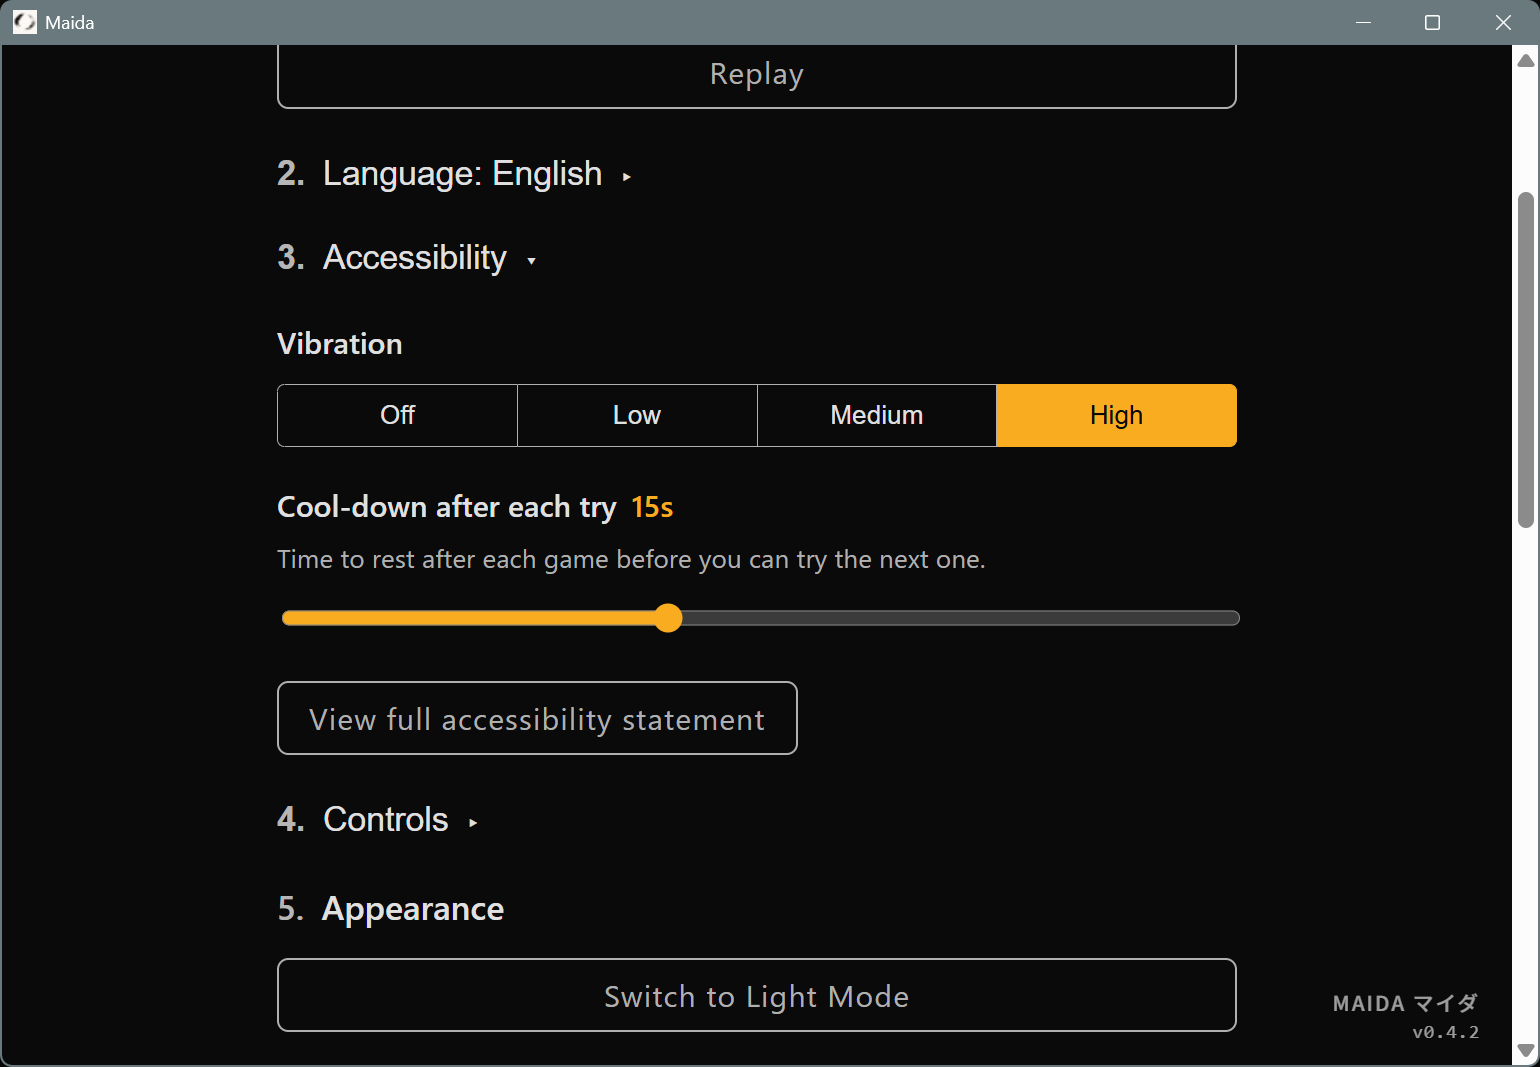
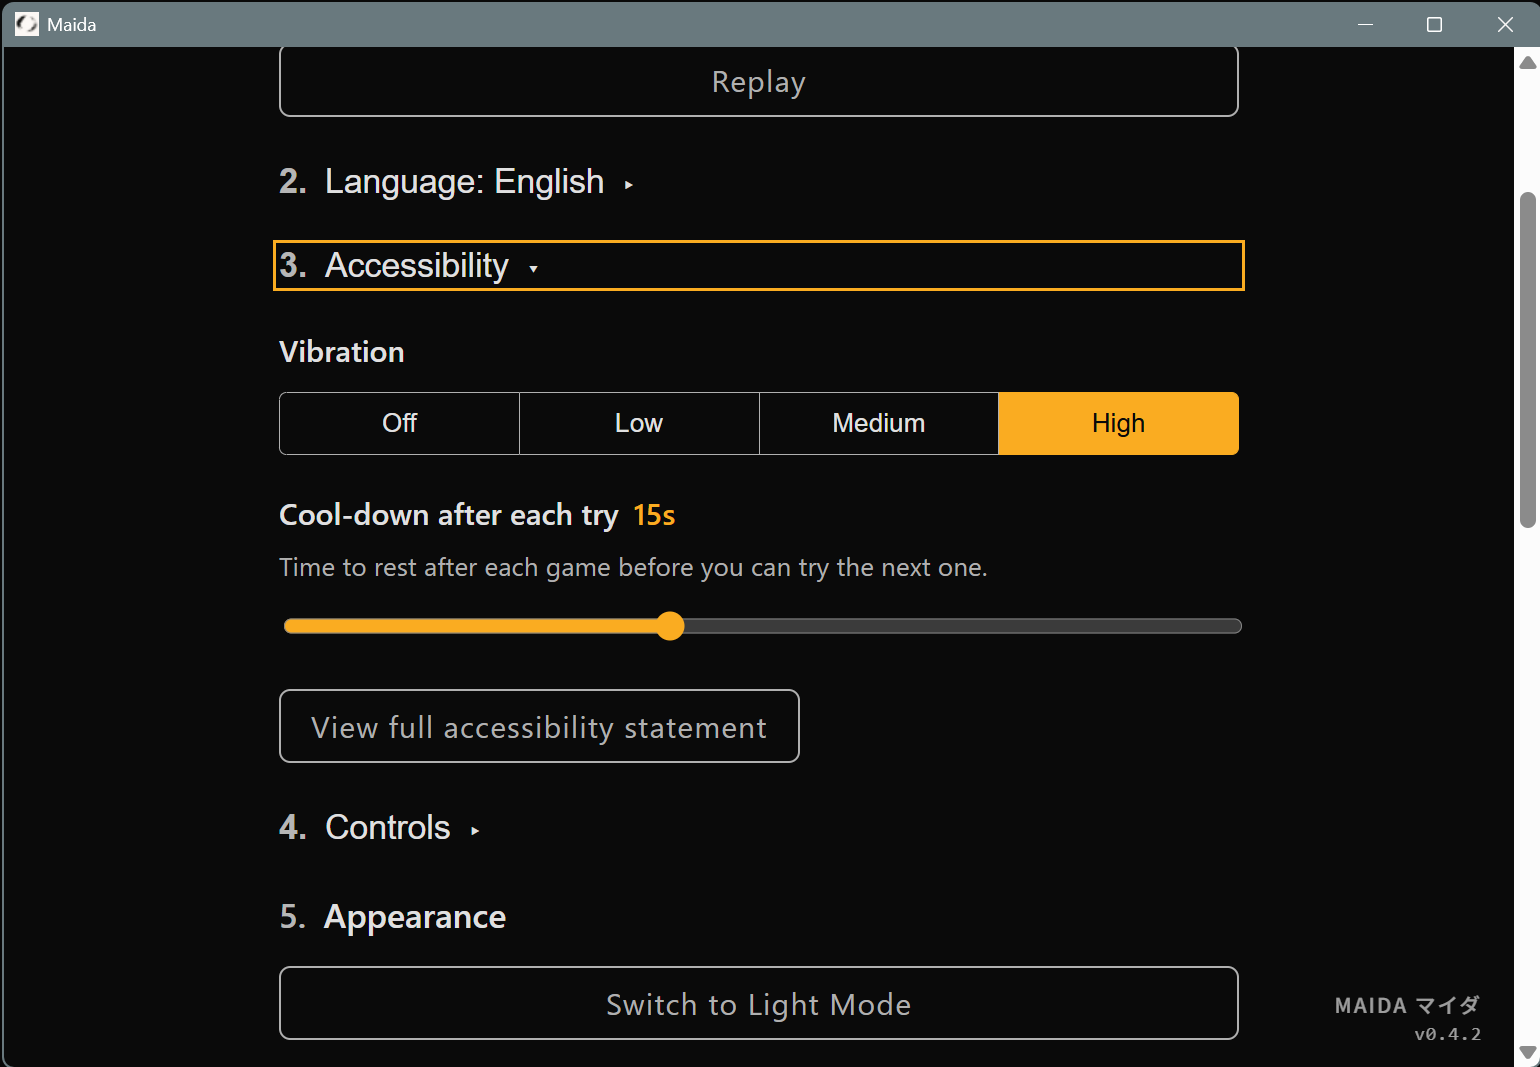
feat(web): sync light-theme screenshots and wire up shot-light swap in manual
Re-captured v0.4.2 screenshots in light theme for the six UI surfaces
that previously fell back to showing the dark variant in both themes:
Onboarding, Kamae search panel, and settings screens 1-3. Also added
previously-missing dark + light captures for the new v0.4.3 settings
screens 4 and 5 (a11y expandable section, anonymous telemetry toggle)
so the asset set matches the app's current state end-to-end.

All 13 new images are center-cropped to 1540x1067 to match the
established trimmed/ convention — each capture keeps the Maida window
title bar deliberately since that anchors "which app is this" for
landing readers.

Manual page updates: five <figure> blocks (Onboarding, kamaeView_search,
setting1, setting2, setting3) now point their .shot-light img to the
matching _l.png instead of reusing the _dark_ source. Light theme
readers on the manual page now see light screenshots where the rest of
the site shows light.

setting4 and setting5 assets are synced but not yet referenced from the
manual content; adding manual sections covering the accessibility
expandable section and anonymous telemetry toggle can follow in a
separate edit since the source-of-truth user-manual-*.md still covers
the same material compactly.

diff --git a/maida/manual/index.html b/maida/manual/index.html
@@ -155,7 +155,7 @@
       </ol>
       <figure class="screenshot">
         <img src="../screenshots/Onboarding.png" alt="Maida onboarding screen on first launch" class="shot-dark">
-        <img src="../screenshots/Onboarding.png" alt="Maida onboarding screen on first launch" class="shot-light">
+        <img src="../screenshots/Onboarding_l.png" alt="Maida onboarding screen on first launch" class="shot-light">
         <figcaption class="caption"><span data-lang="en">First launch: onboarding</span><span data-lang="ja">初回起動：オンボーディング</span><span data-lang="zh-tw">首次啟動：引導畫面</span><span data-lang="zh-cn">首次启动：引导画面</span></figcaption>
       </figure>
       <p><span data-lang="en">Maida automatically detects your system language (English, Japanese, Simplified Chinese, Traditional Chinese). You can change it later in Settings.</span><span data-lang="ja">Maida はシステムの言語設定を自動検出します（英語、日本語、簡体字中国語、繁体字中国語）。後から設定で変更できます。</span><span data-lang="zh-tw">Maida 會自動偵測你的系統語言（英文、日文、簡體中文、繁體中文）。你可以之後在設定中更改。</span><span data-lang="zh-cn">Maida 会自动检测你的系统语言（英文、日文、简体中文、繁体中文）。你可以之后在设置中更改。</span></p>
@@ -237,7 +237,7 @@
       <p><span data-lang="en">If your library is large, use search in Kamae to find specific games quickly.</span><span data-lang="ja">ライブラリが大きい場合は、構内の検索で特定のゲームをすばやく見つけられます。</span><span data-lang="zh-tw">如果你的遊戲庫很大，可以在構面中使用搜尋快速找到特定遊戲。</span><span data-lang="zh-cn">如果你的游戏库很大，可以在构面中使用搜索快速找到特定游戏。</span></p>
       <figure class="screenshot">
         <img src="../screenshots/kamaeView_search.png" alt="Kamae search panel" class="shot-dark">
-        <img src="../screenshots/kamaeView_search.png" alt="Kamae search panel" class="shot-light">
+        <img src="../screenshots/kamaeView_search_l.png" alt="Kamae search panel" class="shot-light">
         <figcaption class="caption"><span data-lang="en">Kamae search: find games in your library</span><span data-lang="ja">構の検索：ライブラリから探す</span><span data-lang="zh-tw">構面搜尋：在遊戲庫中尋找</span><span data-lang="zh-cn">构面搜索：在游戏库中寻找</span></figcaption>
       </figure>
       <p><em>
@@ -371,17 +371,17 @@
       <p><span data-lang="en">In Kamae, tap "Settings". Each section can be expanded by tapping its title.</span><span data-lang="ja">構で「設定」をタップします。各セクションはタイトルをタップすると展開できます。</span><span data-lang="zh-tw">在構面中點擊「設定」。每個區塊都可以點擊標題展開。</span><span data-lang="zh-cn">在构面中点击「设置」。每个区块都可以点击标题展开。</span></p>
       <figure class="screenshot">
         <img src="../screenshots/setting1.png" alt="Settings screen 1" class="shot-dark">
-        <img src="../screenshots/setting1.png" alt="Settings screen 1" class="shot-light">
+        <img src="../screenshots/setting1_l.png" alt="Settings screen 1" class="shot-light">
         <figcaption class="caption"><span data-lang="en">Settings: general preferences</span><span data-lang="ja">設定：一般設定</span><span data-lang="zh-tw">設定：一般偏好</span><span data-lang="zh-cn">设置：一般偏好</span></figcaption>
       </figure>
       <figure class="screenshot">
         <img src="../screenshots/setting2.png" alt="Settings screen 2" class="shot-dark">
-        <img src="../screenshots/setting2.png" alt="Settings screen 2" class="shot-light">
+        <img src="../screenshots/setting2_l.png" alt="Settings screen 2" class="shot-light">
         <figcaption class="caption"><span data-lang="en">Settings: accessibility and behavior</span><span data-lang="ja">設定：アクセシビリティと動作</span><span data-lang="zh-tw">設定：無障礙與行為</span><span data-lang="zh-cn">设置：无障碍与行为</span></figcaption>
       </figure>
       <figure class="screenshot">
         <img src="../screenshots/setting3.png" alt="Settings screen 3" class="shot-dark">
-        <img src="../screenshots/setting3.png" alt="Settings screen 3" class="shot-light">
+        <img src="../screenshots/setting3_l.png" alt="Settings screen 3" class="shot-light">
         <figcaption class="caption"><span data-lang="en">Settings: data and telemetry</span><span data-lang="ja">設定：データとテレメトリ</span><span data-lang="zh-tw">設定：資料與遙測</span><span data-lang="zh-cn">设置：数据与遥测</span></figcaption>
       </figure>
       <ul>
